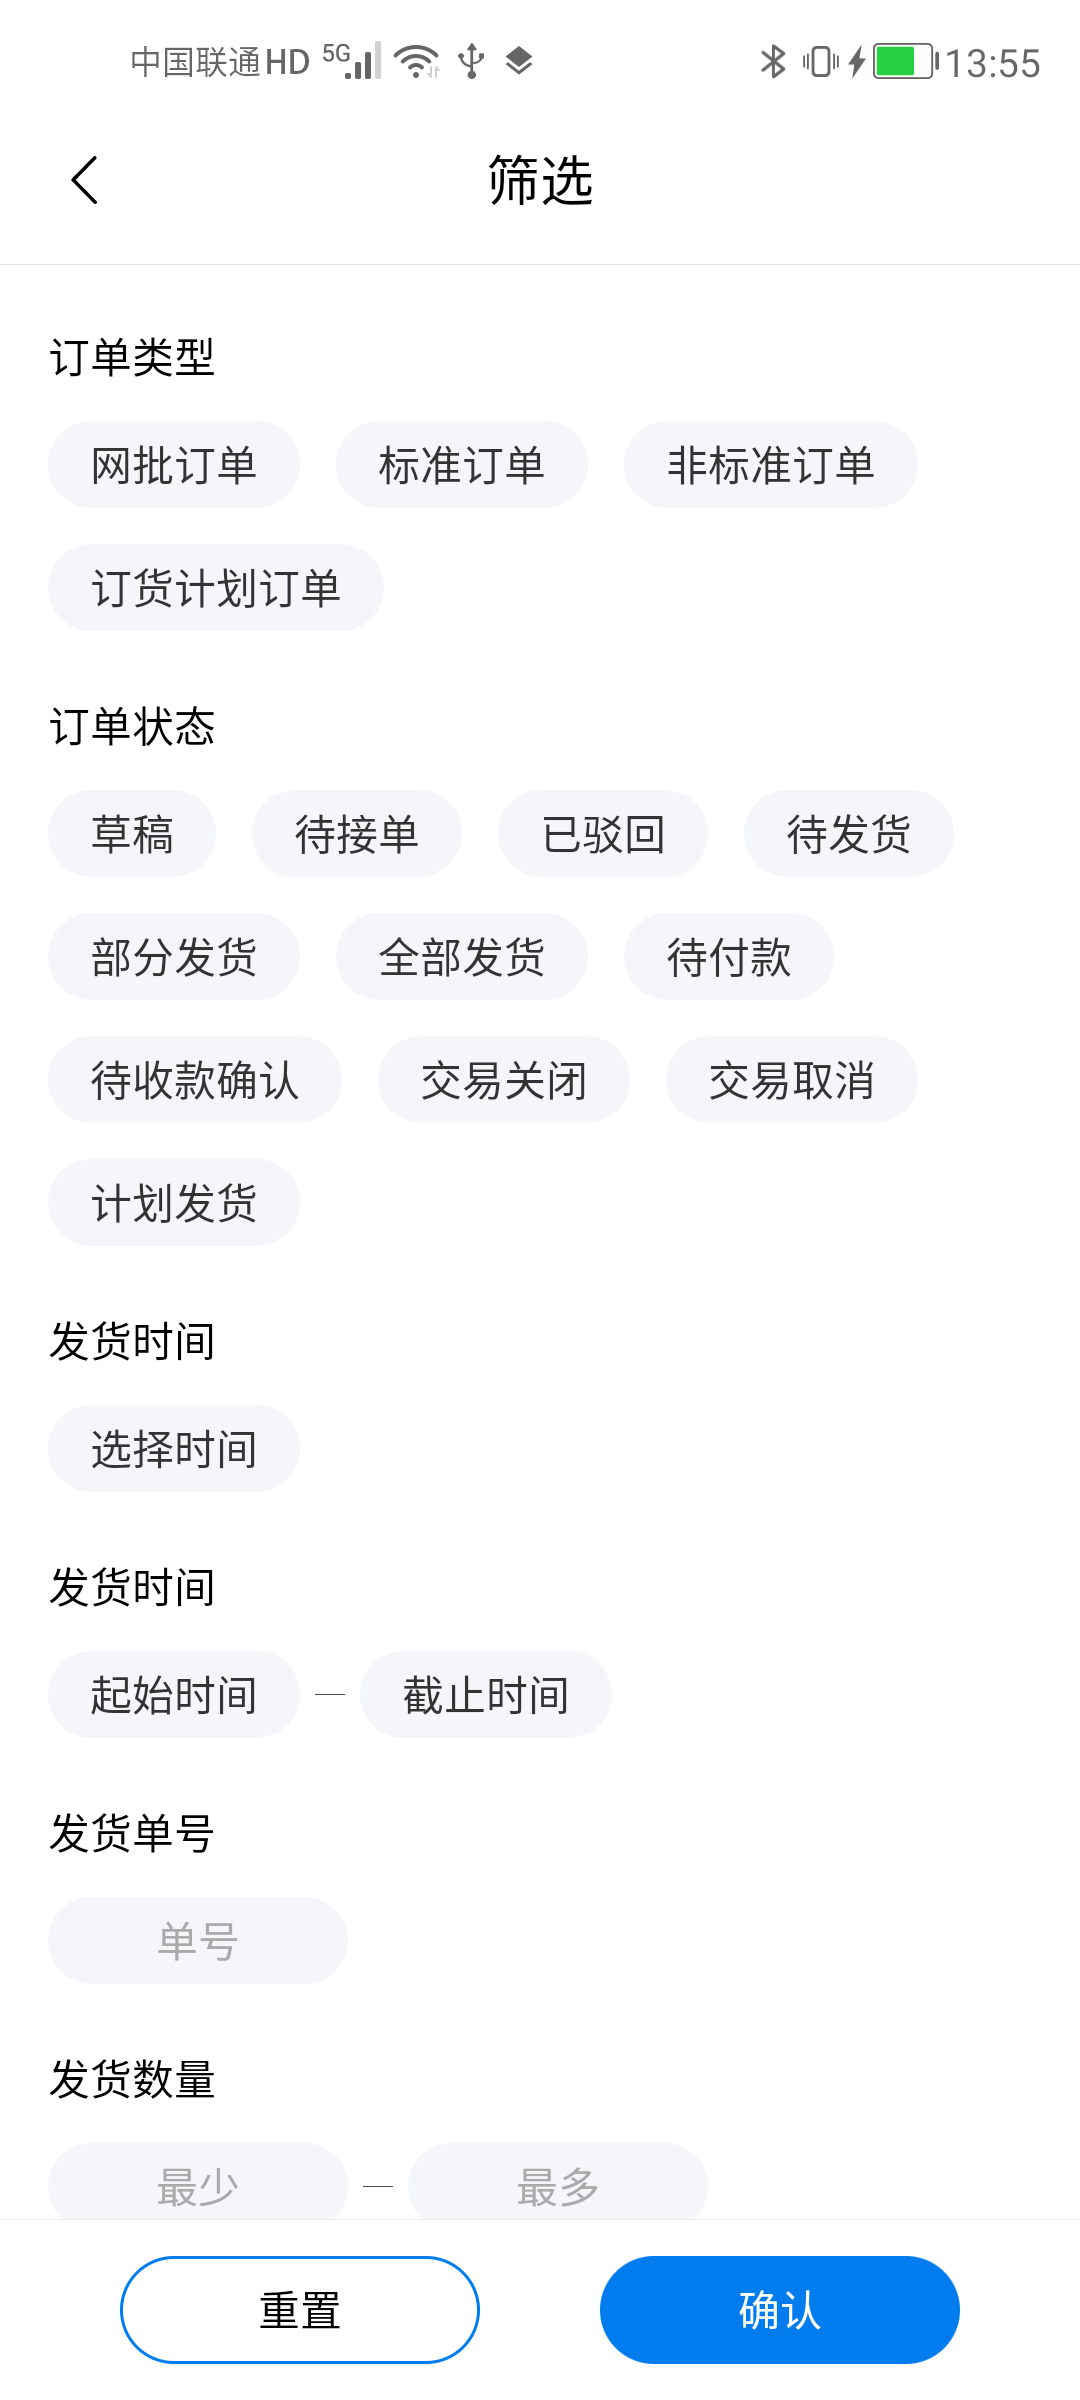
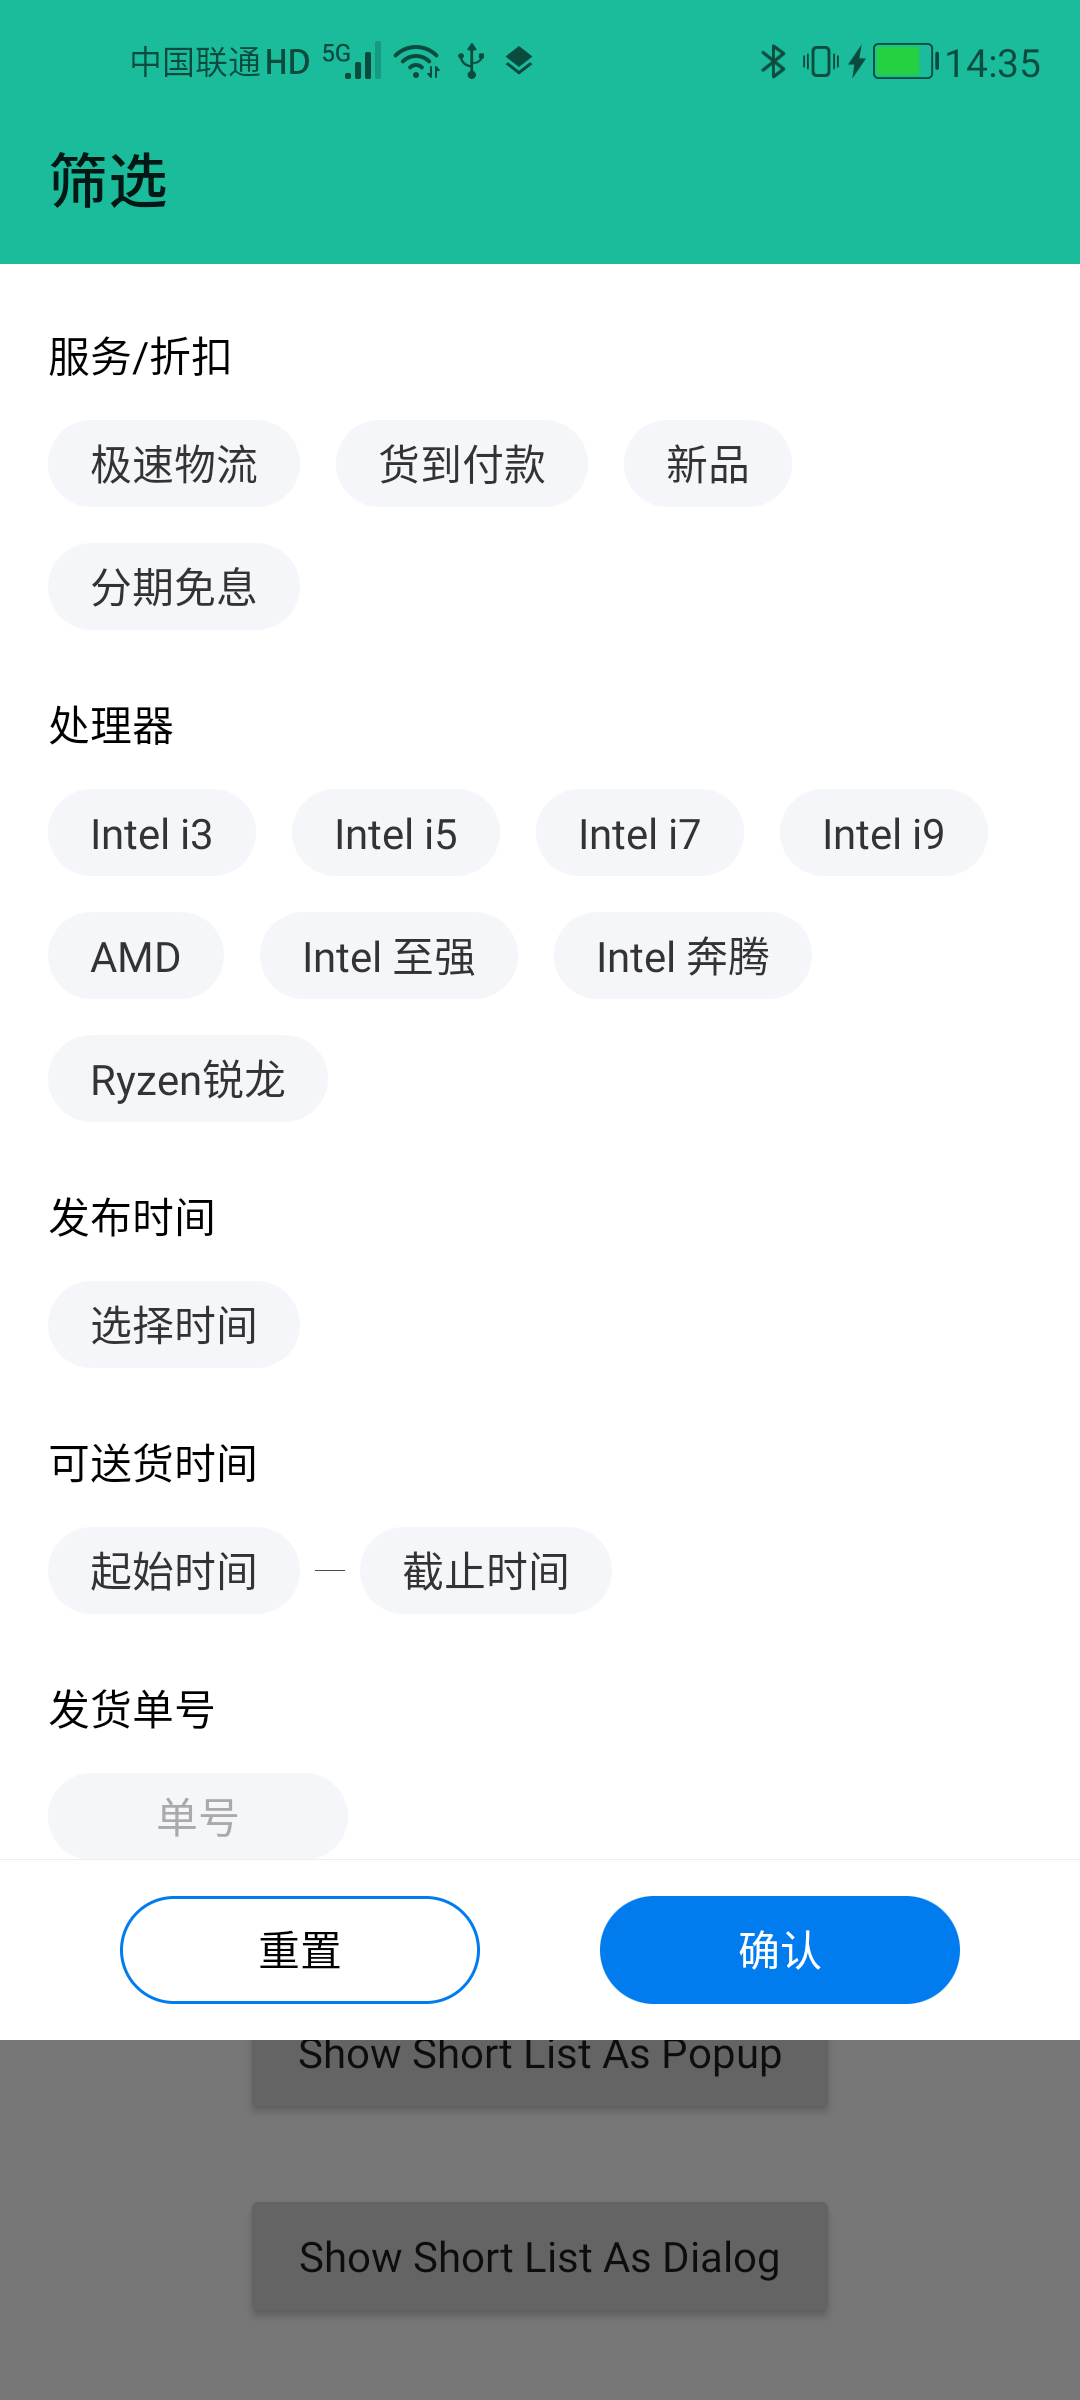
fix bug

diff --git a/app/src/main/java/com/liabit/test/filtertest/TestFilterActivity.kt b/app/src/main/java/com/liabit/test/filtertest/TestFilterActivity.kt
@@ -29,12 +29,12 @@ class TestFilterActivity : AppCompatActivity() {
         rightFilterData = getFilterData()
 
         shortFilterData = ArrayList()
-        val checkableList1 = SimpleFilterGroup("订单类型")
-        checkableList1.add(SimpleCheckableFilterItem("网批订单"))
-        checkableList1.add(SimpleCheckableFilterItem("标准订单"))
-        checkableList1.add(SimpleCheckableFilterItem("非标准订单"))
-        checkableList1.add(SimpleCheckableFilterItem("订货计划订单"))
-        checkableList1.setSingleChoice(true)
+        val checkableList1 = SimpleFilterGroup("服务/折扣")
+        checkableList1.add(SimpleCheckableFilterItem("极速物流"))
+        checkableList1.add(SimpleCheckableFilterItem("货到付款"))
+        checkableList1.add(SimpleCheckableFilterItem("新品"))
+        checkableList1.add(SimpleCheckableFilterItem("分期免息"))
+        checkableList1.setSingleChoice(false)
         shortFilterData.add(checkableList1)
 
         binding.openFragment.setOnClickListener {
@@ -226,33 +226,30 @@ class TestFilterActivity : AppCompatActivity() {
     private fun getFilterData(): List<FilterItem> {
         val filterData = ArrayList<FilterItem>()
 
-        val checkableList1 = SimpleFilterGroup("订单类型")
-        checkableList1.add(SimpleCheckableFilterItem("网批订单"))
-        checkableList1.add(SimpleCheckableFilterItem("标准订单"))
-        checkableList1.add(SimpleCheckableFilterItem("非标准订单"))
-        checkableList1.add(SimpleCheckableFilterItem("订货计划订单"))
-        checkableList1.setSingleChoice(true)
+        val checkableList1 = SimpleFilterGroup("服务/折扣")
+        checkableList1.add(SimpleCheckableFilterItem("极速物流"))
+        checkableList1.add(SimpleCheckableFilterItem("货到付款"))
+        checkableList1.add(SimpleCheckableFilterItem("新品"))
+        checkableList1.add(SimpleCheckableFilterItem("分期免息"))
+        checkableList1.setSingleChoice(false)
         filterData.add(checkableList1)
 
-        val checkableList2 = SimpleFilterGroup("订单状态")
-        checkableList2.add(SimpleCheckableFilterItem("草稿"))
-        checkableList2.add(SimpleCheckableFilterItem("待接单"))
-        checkableList2.add(SimpleCheckableFilterItem("已驳回"))
-        checkableList2.add(SimpleCheckableFilterItem("待发货"))
-        checkableList2.add(SimpleCheckableFilterItem("部分发货"))
-        checkableList2.add(SimpleCheckableFilterItem("全部发货"))
-        checkableList2.add(SimpleCheckableFilterItem("待付款"))
-        checkableList2.add(SimpleCheckableFilterItem("待收款确认"))
-        checkableList2.add(SimpleCheckableFilterItem("交易关闭"))
-        checkableList2.add(SimpleCheckableFilterItem("交易取消"))
-        checkableList2.add(SimpleCheckableFilterItem("计划发货"))
+        val checkableList2 = SimpleFilterGroup("处理器")
+        checkableList2.add(SimpleCheckableFilterItem("Intel i3"))
+        checkableList2.add(SimpleCheckableFilterItem("Intel i5"))
+        checkableList2.add(SimpleCheckableFilterItem("Intel i7"))
+        checkableList2.add(SimpleCheckableFilterItem("Intel i9"))
+        checkableList2.add(SimpleCheckableFilterItem("AMD"))
+        checkableList2.add(SimpleCheckableFilterItem("Intel 至强"))
+        checkableList2.add(SimpleCheckableFilterItem("Intel 奔腾"))
+        checkableList2.add(SimpleCheckableFilterItem("Ryzen锐龙"))
         filterData.add(checkableList2)
 
-        val date = SimpleFilterGroup("发货时间")
+        val date = SimpleFilterGroup("发布时间")
         date.add(SimpleDateFilterItem("选择时间"))
         filterData.add(date)
 
-        val dateRange = SimpleFilterGroup("发货时间")
+        val dateRange = SimpleFilterGroup("可送货时间")
         dateRange.add(SimpleDateRangeFilterItem("起始时间", "截止时间"))
         filterData.add(dateRange)
 
